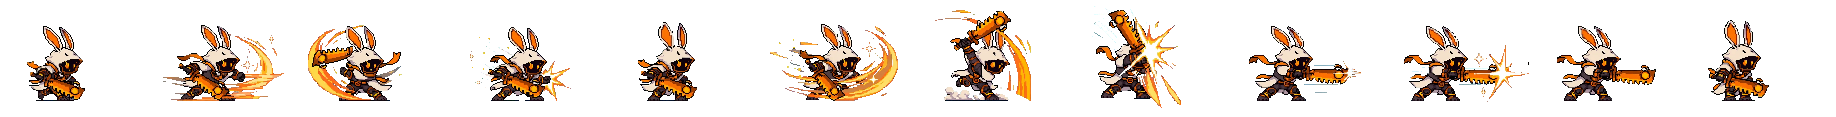
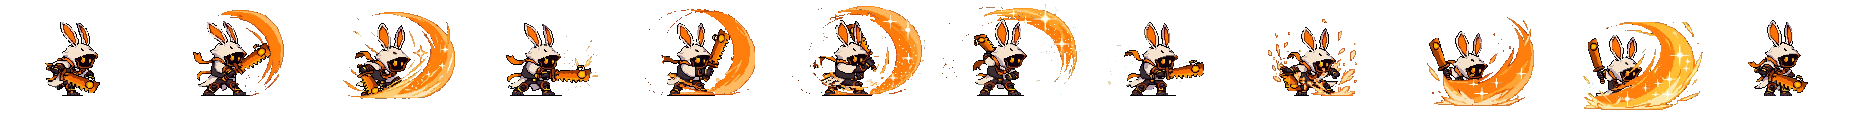
Rabbit attack v2: steady body, arcs to the front, legs back (#482)
* rabbit run + combo preview GIFs

Claude-Session: https://claude.ai/code/session_01TXxUxQt8qPPSTWTLTuDzys

* Rabbit attack v2: owner's second sheet, frames lined up by the eyes so the body does not jump; preview GIFs

Claude-Session: https://claude.ai/code/session_01TXxUxQt8qPPSTWTLTuDzys

* Rabbit attack frames 5-7: arc moved to the front (owner's ask), unflipped sheet kept

Claude-Session: https://claude.ai/code/session_01TXxUxQt8qPPSTWTLTuDzys

* Rabbit attack frames 5-6: legs restored from frame 7

Claude-Session: https://claude.ai/code/session_01TXxUxQt8qPPSTWTLTuDzys

---------

diff --git a/side.html b/side.html
@@ -28,10 +28,11 @@ const img = s => { const i = new Image(); i.src = s; return i; };
 // for size. &dust=1 = the run as PixelLab drew it, with dust puffs at the feet (default = puffs taken out by tools/art/hood_run_clean.py).
 const QS = new URLSearchParams(location.search), RABBIT = QS.get('hero') === 'rabbit';
 const HERO = RABBIT ? {img: img(QS.get('dust') === '1' ? 'art/sidegame/rabbit_run_dust.png' : 'art/sidegame/rabbit_run.png'), cw: 128, ch: 96, feet: [50, 92], loop: 8, fps: 16} : null;
-// rabbit attack: 3-hit combo from the owner's 12-frame sheet (tools/art/hood_attack_cut.py; effects kept as drawn), cells 153 x 117, feet x 56 y 101.
-// Each hit = 4 frames [ms each]; pressing again during a hit queues the next one; the impact frame shakes the view a little.
-const ATK = RABBIT ? {img: img('art/sidegame/rabbit_attack.png'), cw: 153, ch: 117, feet: [56, 101],
-  hits: [{f: [0, 1, 2, 3], ms: [40, 70, 70, 110], hit: 3}, {f: [4, 5, 6, 7], ms: [40, 70, 90, 120], hit: 7}, {f: [8, 9, 10, 11], ms: [60, 90, 90, 130], hit: 9}]} : null;
+// rabbit attack: 3-hit combo from the owner's second 12-frame sheet (tools/art/hood_attack_cut.py v2: frames lined up by the eyes so the body stays put,
+// effects kept as drawn), cells 155 x 115, feet x 77 y 96. Each hit = 4 frames [ms each]; pressing again during a hit queues the next; the impact frame shakes the view.
+// The first sheet (v1) is kept as art/sidegame/rabbit_attack_v1.png.
+const ATK = RABBIT ? {img: img('art/sidegame/rabbit_attack.png'), cw: 155, ch: 115, feet: [77, 96],
+  hits: [{f: [0, 1, 2, 3], ms: [50, 80, 100, 130], hit: 2}, {f: [4, 5, 6, 7], ms: [80, 90, 100, 130], hit: 5}, {f: [8, 9, 10, 11], ms: [90, 80, 110, 150], hit: 10}]} : null;
 const A = {on: false, n: 0, t: 0, queued: false, shake: 0};
 function attack() { if (!ATK) return; if (A.on) { A.queued = true; return; } A.on = true; A.n = 0; A.t = 0; A.queued = false; }
 const RUN = img('art/sidegame/dagger_run.png'), BG = img('art/side/map30/bg.png'), TILES = img('art/side/map30/tiles_wang.png'), TREE = img('art/side/map30/tree.png');

diff --git a/tools/art/hood_attack_cut.py b/tools/art/hood_attack_cut.py
@@ -3,10 +3,16 @@
 # Grid: period P = idle-frame height / 75; the phase is found per frame (cells should be flat inside), then each cell's centre is sampled.
 import sys, json, numpy as np
 from PIL import Image
-SRC, OUT = 'art/incoming/hood/attack/sheet_raw.webp', 'art/sidegame/rabbit_attack.png'
+# v1 = first sheet (horizontal swing / overhead smash / thrust); v2 = second sheet (big arcs, owner 2026-11-14 "ภาพมันกระโดด เอาอันนี้แทน").
+# v2 also lines frames up by the glowing EYES (head steady, only the blade and effects move) instead of the feet alone: v1 jumped up to 30 px.
+V = sys.argv[1] if len(sys.argv) > 1 else 'v2'
+SHEETS = {
+  'v1': ('art/incoming/hood/attack/sheet_raw.webp', 'art/sidegame/rabbit_attack_v1.png', [(40, 410), (410, 885), (885, 1260)],
+         [[(72, 320), (428, 953), (1003, 1402), (1466, 1906)], [(72, 326), (396, 941), (1017, 1429), (1521, 1908)], [(37, 512), (512, 1040), (1040, 1460), (1562, 1821)]], False),
+  'v2': ('art/incoming/hood/attack/sheet2_raw.webp', 'art/sidegame/rabbit_attack.png', [(20, 410), (425, 845), (860, 1265)],
+         [[(88, 324), (511, 894), (981, 1456), (1532, 1920)], [(31, 414), (462, 904), (991, 1443), (1482, 1901)], [(28, 408), (476, 930), (996, 1504), (1560, 1815)]], True)}
+SRC, OUT, ROWS, CELLS, BY_EYES = SHEETS[V]
 A = np.asarray(Image.open(SRC).convert('RGBA')).astype(float)
-CELLS = [[(72, 320), (428, 953), (1003, 1402), (1466, 1906)], [(72, 326), (396, 941), (1017, 1429), (1521, 1908)], [(37, 512), (512, 1040), (1040, 1460), (1562, 1821)]]
-ROWS = [(40, 410), (410, 885), (885, 1260)]
 P = 315 / 75
 def snap(c):
     H, W = c.shape[:2]; best = None
@@ -22,12 +28,20 @@ def snap(c):
 def feet(o):   # anchor = mean x of the dark (boot / body) pixels in the lowest 4 rows that have any, and that lowest row
     dark = (o[..., 3] > 0) & (o[..., :3].max(2) < 110); ys = np.where(dark.any(1))[0]; yb = ys[-1]
     return float(np.where(dark[yb - 3:yb + 1].any(0))[0].mean()), int(yb)
+def eyes(o):   # the two glowing orange eyes inside the black face: bright orange pixels with plenty of near-black around them
+    m = (o[..., 3] > 0) & (o[..., 0] > 220) & (o[..., 1] > 110) & (o[..., 1] < 210) & (o[..., 2] < 90); dark = (o[..., 3] > 0) & (o[..., :3].max(2) < 60)
+    pts = [(y, x) for y, x in zip(*np.where(m)) if 2 < y < o.shape[0] - 3 and 2 < x < o.shape[1] - 3 and dark[y - 2:y + 3, x - 2:x + 3].sum() > 8]
+    return (float(np.mean([p[1] for p in pts])), float(np.mean([p[0] for p in pts]))) if len(pts) >= 2 else None
 run0 = np.asarray(Image.open('art/sidegame/rabbit_run.png').convert('RGBA'))[:, :128]
 RX, RY = feet(run0); FEET_RUN = (50, 92)   # the run's own feet point in the game
 frames = []
 for r, (y0, y1) in enumerate(ROWS):
     for (x0, x1) in CELLS[r]:
-        o = snap(A[y0:y1, x0:x1]); fx, fy = feet(o); frames.append((o, fx, fy))
+        o = snap(A[y0:y1, x0:x1]); fx, fy = feet(o)
+        if BY_EYES:   # keep the feet row, but put the eyes where the run's stance has them (x only: the head may dip in a swing)
+            e, er = eyes(o), eyes(run0)
+            if e and er: fx = e[0] - (er[0] - RX)
+        frames.append((o, fx, fy))
 # where the run's dark-feet anchor sits relative to the game feet point
 dx_run, dy_run = RX - FEET_RUN[0], RY - FEET_RUN[1]
 L = max(fx - dx_run for o, fx, fy in frames); R = max(o.shape[1] - (fx - dx_run) for o, fx, fy in frames)

diff --git a/tools/art/hood_fx_flip.py b/tools/art/hood_fx_flip.py
@@ -1,0 +1,42 @@
+# Owner 2026-11-14 "567 กลับเอฟเฟกต์มาอีกฝั่ง": in attack frames 5, 6, 7 (indices 4-6 of rabbit_attack.png) the big arc is drawn BEHIND the rabbit (left);
+# move it to the front: the arc pixels (bright orange / yellow / white, no dark outline, big patches) are mirrored about the head line
+# and laid UNDER the body. The unflipped sheet is kept as rabbit_attack_noflip.png.
+import json, numpy as np
+from PIL import Image
+from scipy import ndimage as nd
+SRC = 'art/sidegame/rabbit_attack.png'; J = json.load(open(SRC.replace('.png', '.json'))); CW, CH = J['cw'], J['ch']; FX = J['feet'][0]
+import os
+NF = SRC.replace('.png', '_noflip.png')
+if not os.path.exists(NF): Image.open(SRC).save(NF)
+im = Image.open(NF).convert('RGBA')   # always start from the unflipped sheet
+a = np.asarray(im).copy()
+for i in (4, 5, 6):
+    c = a[:, i * CW:(i + 1) * CW].copy(); rgb = c[..., :3].astype(int); al = c[..., 3] > 0
+    mx, mn = rgb.max(2), rgb.min(2)
+    glow = al & (mx > 200) & ((rgb[..., 0] > 200) & (rgb[..., 2] < 200) | (mn > 215))   # orange / yellow / near-white
+    # the rabbit itself is ringed by a dark outline: close it, fill it, and never take pixels from inside it
+    dark = al & (mx < 90); body_m = nd.binary_fill_holes(nd.binary_closing(dark, np.ones((3, 3)), 2)); body_m = nd.binary_dilation(body_m, iterations=1)
+    head = np.abs(np.arange(CW)[None, :] - FX) <= 17; near_line = nd.binary_dilation(dark, iterations=3)
+    glow &= ~body_m & ~(head & near_line)   # ears: thin, their outline is not always closed, so near-outline pixels in the head zone stay
+    lab, n = nd.label(glow, np.ones((3, 3)))
+    fx = np.zeros_like(al)
+    for k in range(1, n + 1):
+        m = lab == k; ys, xs = np.where(m)
+        if xs.mean() < FX - 6 and (m.sum() > 60 or xs.max() < FX - 20): fx |= m
+    # sparkles / specks left of the body go with the arc
+    fx |= al & ~body_m & (mx > 150) & (np.arange(CW)[None, :] < FX - 30)
+    body = c.copy(); body[fx] = 0
+    eff = np.zeros_like(c); eff[fx] = c[fx]
+    eff = eff[:, ::-1]; sh = 2 * FX - (CW - 1)   # mirror about x = FX
+    eff = np.roll(eff, sh, axis=1)
+    if sh > 0: eff[:, :sh] = 0
+    elif sh < 0: eff[:, sh:] = 0
+    out = Image.fromarray(eff); out.alpha_composite(Image.fromarray(body)); a[:, i * CW:(i + 1) * CW] = np.asarray(out)
+# Owner "ขาหาย ต่อขากลับมา": in frames 5 and 6 the original arc covered the legs, so once the arc moved there were none.
+# The legs of frame 7 (index 6, same stance) are laid UNDER those two frames.
+LEGS = a[J['feet'][1] - 24:J['feet'][1] + 2, 6 * CW + FX - 30:6 * CW + FX + 24].copy()
+for i in (4, 5):
+    y0, x0 = J['feet'][1] - 24, i * CW + FX - 30
+    under = Image.fromarray(np.zeros_like(a[:, i * CW:(i + 1) * CW])); under.paste(Image.fromarray(LEGS), (FX - 30, y0))
+    under.alpha_composite(Image.fromarray(a[:, i * CW:(i + 1) * CW].copy())); a[:, i * CW:(i + 1) * CW] = np.asarray(under)
+Image.fromarray(a).save(SRC)

diff --git a/docs/action-game.md b/docs/action-game.md
@@ -1425,3 +1425,6 @@ Theme after the owner's references: an animal HOOD shows the animal, body inside
 - Short rabbit in the side game: `side.html?hero=rabbit` (still `art/sidegame/rabbit_short.png` 59x75, hops by whole pixels while running, no turning / squashing so pixels stay square; the dagger girl stands at x 230 for size). Screenshot `art/incoming/hood/side_rabbit_shot.png`. No run clip yet.
 - Rabbit run in `side.html?hero=rabbit` (cells 128x96, 0 stance, 1-8 loop at 16 fps, feet x 50 y 92; `&dust=1` = PixelLab's puffs kept). Ground fix for every hero: the grass tiles have 17 empty px on top, so the tiles are now drawn 17 px higher (`GRASS`) and feet stand on the visible grass (both heroes floated before). Shot `art/incoming/hood/side_rabbit_run_shot.png`. For Meta attack clips: `art/incoming/hood/META_rabbit_x8.png` + `PROMPT_META_rabbit_attack.txt`.
 - Rabbit ATTACK (owner 2026-11-14, a 12-frame sheet made outside from `META_rabbit_x8.png`, free): `art/incoming/hood/attack/sheet_raw.webp` (3 rows x 4: horizontal swing, overhead smash, thrust; effects drawn in). `tools/art/hood_attack_cut.py` puts it back on our pixel grid (period 315/75 = 4.2, phase found per frame, cell centres sampled), lines the feet up with the run and KEEPS the effects → `art/sidegame/rabbit_attack.png` (cells 153x117, feet 56,101). In `side.html?hero=rabbit`: J / K or the ⚔ button, pressing again during a hit queues the next (3-hit combo), the hero is planted while swinging, the impact frames shake the view 2 px. Shot `art/incoming/hood/side_rabbit_attack_shot.png`. No monsters on this test map yet.
+- Rabbit attack v2 (owner "ภาพมันกระโดด เอาอันนี้แทน" + a second 12-frame sheet, free): `art/incoming/hood/attack/sheet2_raw.webp` (big orange arcs). `tools/art/hood_attack_cut.py v2` lines the frames up by the glowing EYES (head stays at the run stance's head, only blade and arcs move; v1 frames wandered up to 30 px) → `art/sidegame/rabbit_attack.png` (cells 155x115, feet 77,96). The first sheet stays as `rabbit_attack_v1.png`. Combo timings in `side.html` ATK.hits; previews `art/incoming/hood/rabbit_combo2.gif` (game speed) and `_slow.gif` (x3).
+- Owner "567 กลับเอฟเฟกต์มาอีกฝั่ง": in attack frames 5-7 (indices 4-6) the arc was behind the rabbit; `tools/art/hood_fx_flip.py` mirrors the arc pixels (bright, outside the outlined body, ears protected) about the head line and lays them under the body. Unflipped sheet kept: `art/sidegame/rabbit_attack_noflip.png` (the script always starts from it).
+- Frames 5 and 6 got legs back (the original arc covered them): frame 7's legs laid under them, in `tools/art/hood_fx_flip.py`.
